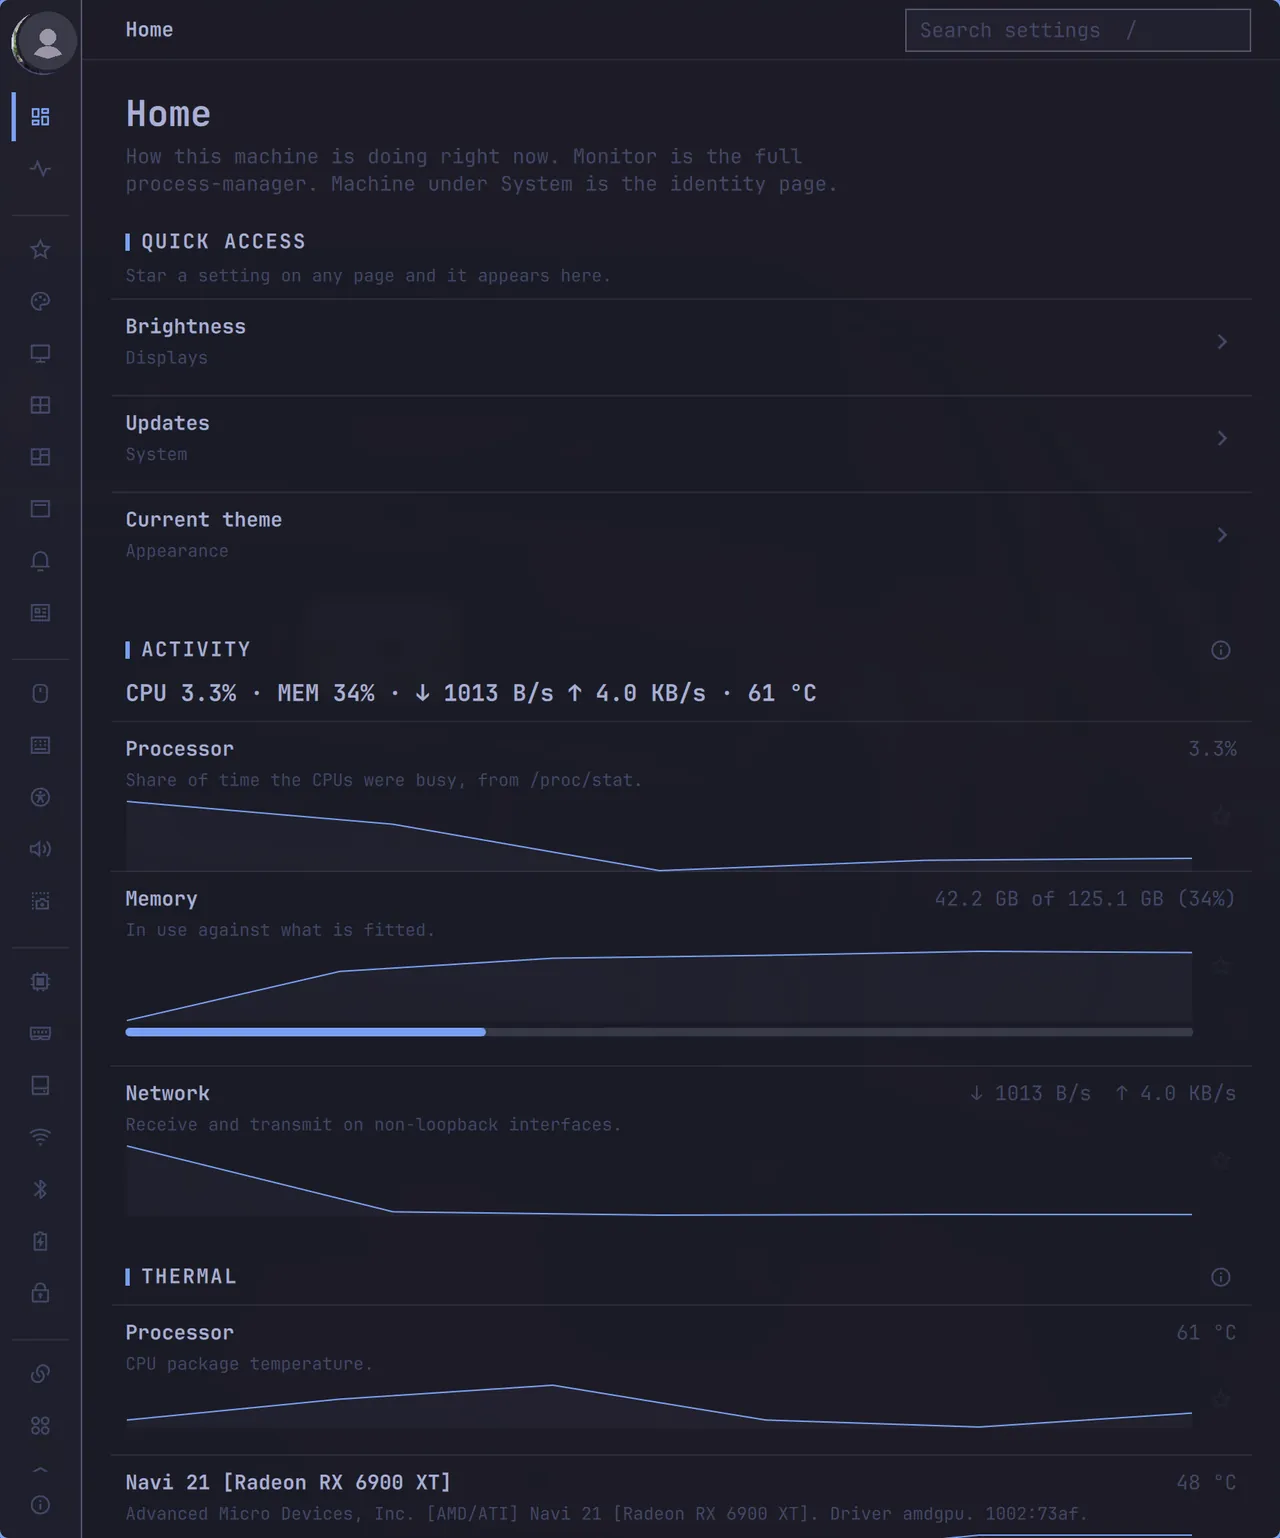
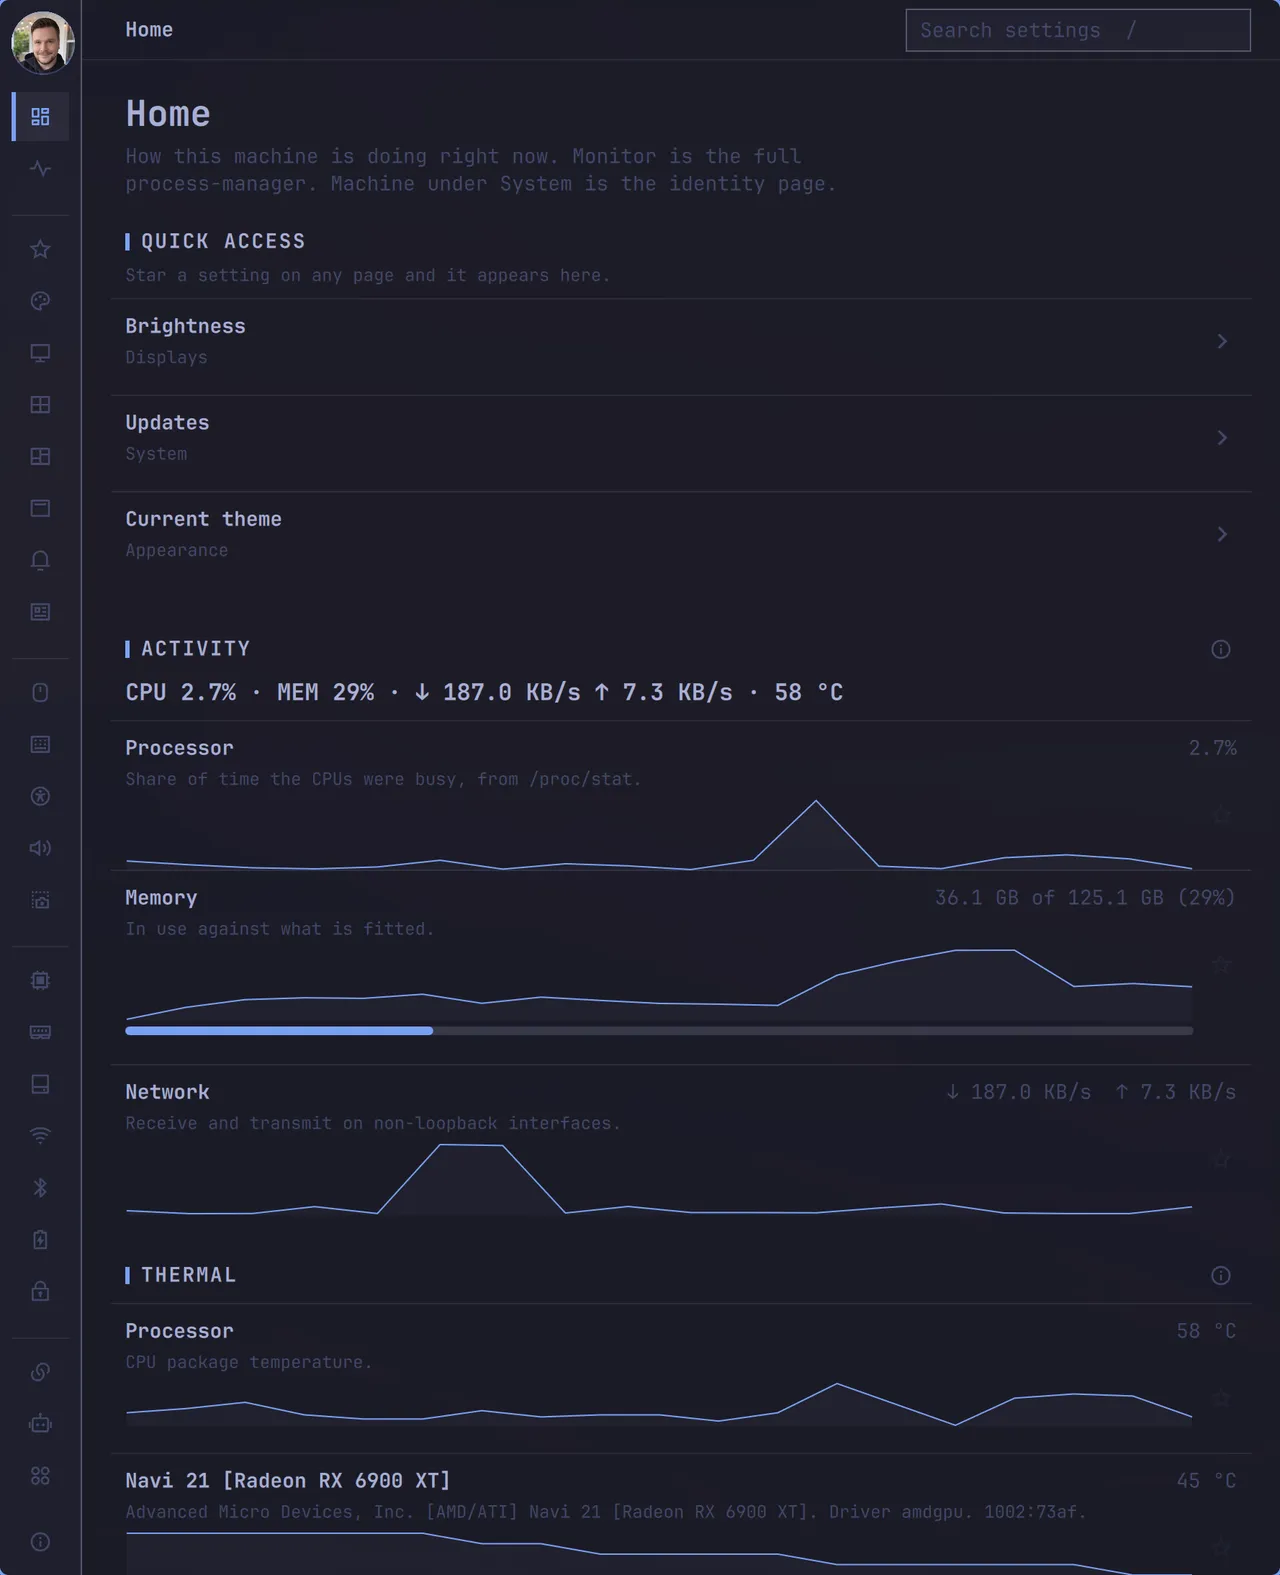
docs: replace the screenshots with a new set
Seven fresh captures (Home, Monitor, Windows, Input, Network, Hardware,
Defaults) replace the old six in the README and on the site. The old
images carried an offset placeholder disc over the avatar and a stale
"alpha" Favorites page. The site gallery now shows six pages.

diff --git a/site/index.html b/site/index.html
@@ -134,7 +134,7 @@
             <img
               src="/screenshots/home.png"
               width="1280"
-              height="1538"
+              height="1575"
               alt="Atmos Home hub showing live processor, memory, network, and temperature charts for this machine."
               fetchpriority="high"
               decoding="async"
@@ -216,7 +216,7 @@
                   <img
                     src="/screenshots/monitor.png"
                     width="1280"
-                    height="1538"
+                    height="1575"
                     alt="Atmos Monitor hub with live processor, memory, traffic, disk I/O, temperature, and load meters."
                     loading="lazy"
                     decoding="async"
@@ -224,50 +224,6 @@
                 </picture>
               </a>
               <figcaption>Monitor — live cores, I/O, and sensors</figcaption>
-            </figure>
-          </li>
-          <li>
-            <figure>
-              <a href="/screenshots/appearance.png">
-                <picture>
-                  <source
-                    type="image/webp"
-                    srcset="/screenshots/appearance-800.webp 800w, /screenshots/appearance.webp 1280w"
-                    sizes="(max-width: 800px) 100vw, 34rem"
-                  />
-                  <img
-                    src="/screenshots/appearance.png"
-                    width="1280"
-                    height="1538"
-                    alt="Atmos Appearance page with the installed Omarchy theme grid and additional theme controls."
-                    loading="lazy"
-                    decoding="async"
-                  />
-                </picture>
-              </a>
-              <figcaption>Appearance — theme, wallpaper, fonts</figcaption>
-            </figure>
-          </li>
-          <li>
-            <figure>
-              <a href="/screenshots/displays.png">
-                <picture>
-                  <source
-                    type="image/webp"
-                    srcset="/screenshots/displays-800.webp 800w, /screenshots/displays.webp 1280w"
-                    sizes="(max-width: 800px) 100vw, 34rem"
-                  />
-                  <img
-                    src="/screenshots/displays.png"
-                    width="1280"
-                    height="1538"
-                    alt="Atmos Displays page with resolution, refresh rate, scale, and brightness for a connected monitor."
-                    loading="lazy"
-                    decoding="async"
-                  />
-                </picture>
-              </a>
-              <figcaption>Displays — scale, refresh, brightness</figcaption>
             </figure>
           </li>
           <li>
@@ -282,7 +238,7 @@
                   <img
                     src="/screenshots/windows.png"
                     width="1280"
-                    height="1538"
+                    height="1575"
                     alt="Atmos Windows page with gap, border, corner, blur, shadow, and tiling controls."
                     loading="lazy"
                     decoding="async"
@@ -294,24 +250,90 @@
           </li>
           <li>
             <figure>
-              <a href="/screenshots/favorites.png">
+              <a href="/screenshots/input.png">
                 <picture>
                   <source
                     type="image/webp"
-                    srcset="/screenshots/favorites-800.webp 800w, /screenshots/favorites.webp 1280w"
+                    srcset="/screenshots/input-800.webp 800w, /screenshots/input.webp 1280w"
                     sizes="(max-width: 800px) 100vw, 34rem"
                   />
                   <img
-                    src="/screenshots/favorites.png"
+                    src="/screenshots/input.png"
                     width="1280"
-                    height="1538"
-                    alt="Atmos Favorites page listing starred settings for brightness, updates, and the current theme."
+                    height="1575"
+                    alt="Atmos Input page with pointer sensitivity, touchpad, and keyboard settings."
                     loading="lazy"
                     decoding="async"
                   />
                 </picture>
               </a>
-              <figcaption>Favorites — starred settings in one place</figcaption>
+              <figcaption>Input — pointer, touchpad, keyboard</figcaption>
+            </figure>
+          </li>
+          <li>
+            <figure>
+              <a href="/screenshots/network.png">
+                <picture>
+                  <source
+                    type="image/webp"
+                    srcset="/screenshots/network-800.webp 800w, /screenshots/network.webp 1280w"
+                    sizes="(max-width: 800px) 100vw, 34rem"
+                  />
+                  <img
+                    src="/screenshots/network.png"
+                    width="1280"
+                    height="1575"
+                    alt="Atmos Network page with the connection, Wi-Fi, VPN, hotspot, and DNS settings."
+                    loading="lazy"
+                    decoding="async"
+                  />
+                </picture>
+              </a>
+              <figcaption>Network — connection, Wi-Fi, VPN, DNS</figcaption>
+            </figure>
+          </li>
+          <li>
+            <figure>
+              <a href="/screenshots/hardware.png">
+                <picture>
+                  <source
+                    type="image/webp"
+                    srcset="/screenshots/hardware-800.webp 800w, /screenshots/hardware.webp 1280w"
+                    sizes="(max-width: 800px) 100vw, 34rem"
+                  />
+                  <img
+                    src="/screenshots/hardware.png"
+                    width="1280"
+                    height="1575"
+                    alt="Atmos Hardware page listing the machine, motherboard, chipset, firmware, and processor."
+                    loading="lazy"
+                    decoding="async"
+                  />
+                </picture>
+              </a>
+              <figcaption>Hardware — what this machine is made of</figcaption>
+            </figure>
+          </li>
+          <li>
+            <figure>
+              <a href="/screenshots/defaults.png">
+                <picture>
+                  <source
+                    type="image/webp"
+                    srcset="/screenshots/defaults-800.webp 800w, /screenshots/defaults.webp 1280w"
+                    sizes="(max-width: 800px) 100vw, 34rem"
+                  />
+                  <img
+                    src="/screenshots/defaults.png"
+                    width="1280"
+                    height="1575"
+                    alt="Atmos Defaults page with the default browser, terminal, editor, and file openers."
+                    loading="lazy"
+                    decoding="async"
+                  />
+                </picture>
+              </a>
+              <figcaption>Defaults — browser, terminal, editor</figcaption>
             </figure>
           </li>
         </ul>

diff --git a/README.md b/README.md
@@ -16,11 +16,15 @@ Site: [atmos.csfh.dev](https://atmos.csfh.dev) · source for it in [`site/`](sit
 
 <p>
   <img src="docs/screenshots/monitor.png" alt="Atmos Monitor hub with live cores, memory, traffic, disk I/O, and sensors" width="360" />
-  <img src="docs/screenshots/appearance.png" alt="Atmos Appearance page with the installed Omarchy theme grid" width="360" />
+  <img src="docs/screenshots/windows.png" alt="Atmos Windows page with gaps, border, corners, blur, and tiling layout" width="360" />
 </p>
 <p>
-  <img src="docs/screenshots/displays.png" alt="Atmos Displays page with resolution, refresh rate, scale, and brightness for one monitor" width="360" />
-  <img src="docs/screenshots/windows.png" alt="Atmos Windows page with gaps, border, corners, blur, and tiling layout" width="360" />
+  <img src="docs/screenshots/input.png" alt="Atmos Input page with pointer, touchpad, and keyboard settings" width="360" />
+  <img src="docs/screenshots/network.png" alt="Atmos Network page with the connection, Wi-Fi, VPN, hotspot, and DNS" width="360" />
+</p>
+<p>
+  <img src="docs/screenshots/hardware.png" alt="Atmos Hardware page listing the machine, motherboard, chipset, firmware, and processor" width="360" />
+  <img src="docs/screenshots/defaults.png" alt="Atmos Defaults page with the default browser, terminal, editor, and file openers" width="360" />
 </p>
 
 ## Features
